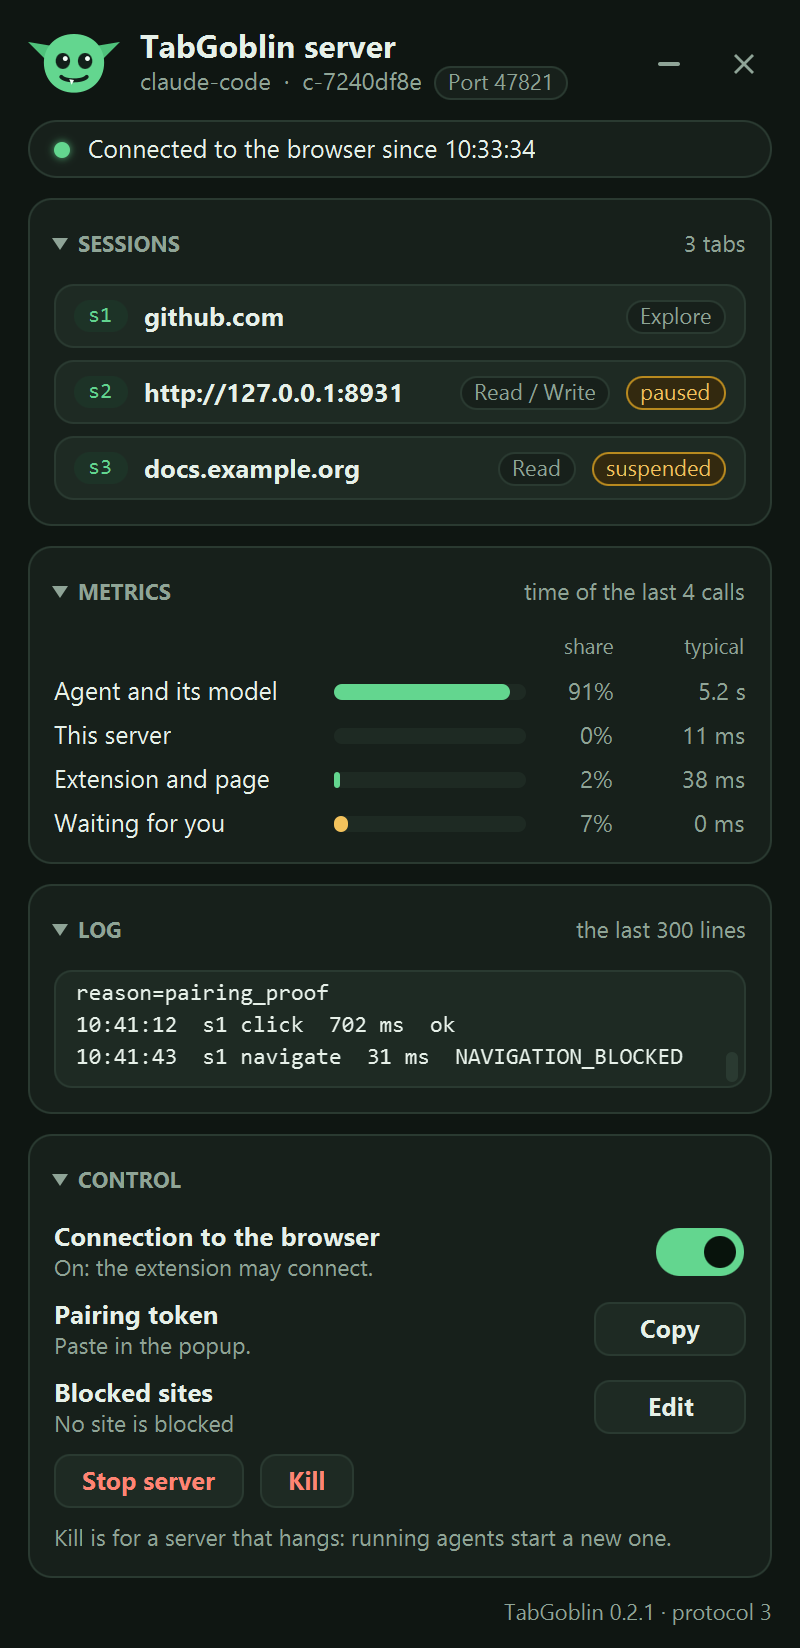
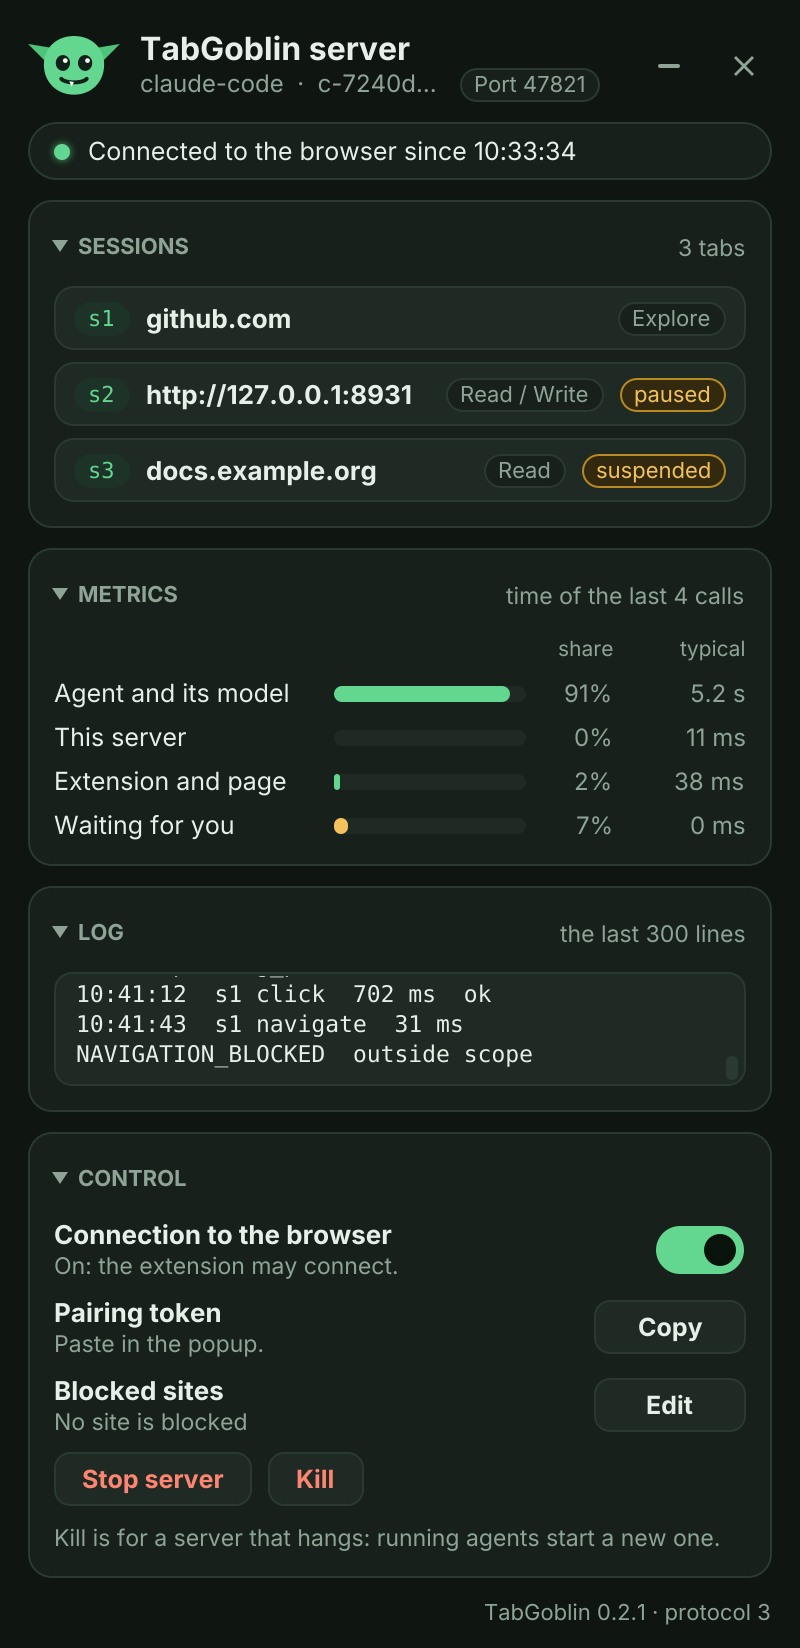
The panel's picture drawn again, with outside scope in its log

diff --git a/docs/agents/validation-log.md b/docs/agents/validation-log.md
@@ -5,7 +5,7 @@ When this passes about ten entries, fold the oldest into one summary line.
 
 ## 2026-11-25, working tree from `a1107fc`: the fixes of the branch's review
 
-In a Linux container, with OpenJDK 25.0.5 and Chromium 1243 (started with `--no-sandbox` through a wrapper, since the container runs as root). Passed: the extension's check, 214 tests, among them the slow-site case of `navigate`, now driven by Chrome's events, with a load over in one moment and a move from `/later#part` to `/later`; Maven's package, 221 server tests, with `PanelTest` skipped for want of a display, then `PanelTest`'s 19 under `xvfb-run` with the JDK that has its window libraries; and the end-to-end suite, 110 of 110. The real window opened by a probe (not in the repository) on a virtual screen 600 high, without a window manager: 552 high, where it was made 560 before; on a screen 1024 high it opens 824 high with a lowest height of 560; and whether it is on the screen followed hiding, showing again and putting it away. Not run: a `navigate` that runs out its 20 seconds (no case for it, it would take that long); the window in a system's frame with a title bar, Windows, macOS; the window's tooltip by hand; `mvn verify`.
+In a Linux container, with OpenJDK 25.0.5 and Chromium 1243 (started with `--no-sandbox` through a wrapper, since the container runs as root). Passed: the extension's check, 214 tests, among them the slow-site case of `navigate`, now driven by Chrome's events, with a load over in one moment and a move from `/later#part` to `/later`; Maven's package, 221 server tests, with `PanelTest` skipped for want of a display, then `PanelTest`'s 19 under `xvfb-run` with the JDK that has its window libraries; and the end-to-end suite, 110 of 110. The real window opened by a probe (not in the repository) on a virtual screen 600 high, without a window manager: 552 high, where it was made 560 before; on a screen 1024 high it opens 824 high with a lowest height of 560; and whether it is on the screen followed hiding, showing again and putting it away. The twenty pictures of the panel drawn the next day under `xvfb-run` and looked at: the header and the Control card are whole in each, `outside scope` ends the refused calls' lines, and the first is `docs/images/server-panel.png` now. Drawn with this system's font (Inter), wider than the Windows one of the picture before: the client id in the header is cut to `c-7240d…`, and a long log line goes on a second row. Not run: a `navigate` that runs out its 20 seconds (no case for it, it would take that long); the window in a system's frame with a title bar, Windows, macOS; the window's tooltip by hand; `mvn verify`.
 
 ## 2026-11-25, working tree from `52143a5`: panel controls, CLI skills and MCP test-client exit handling
 
